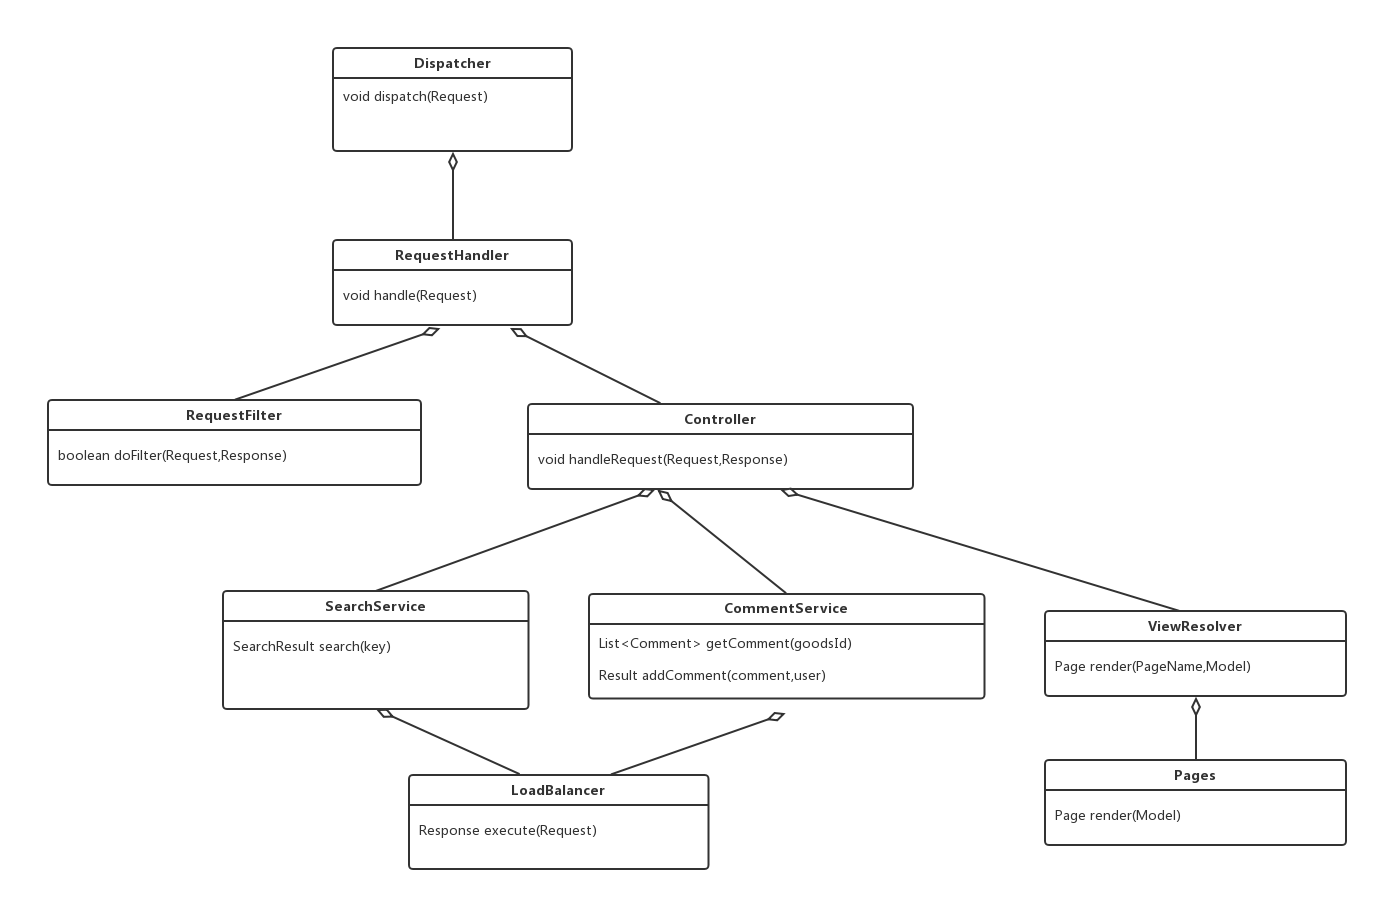
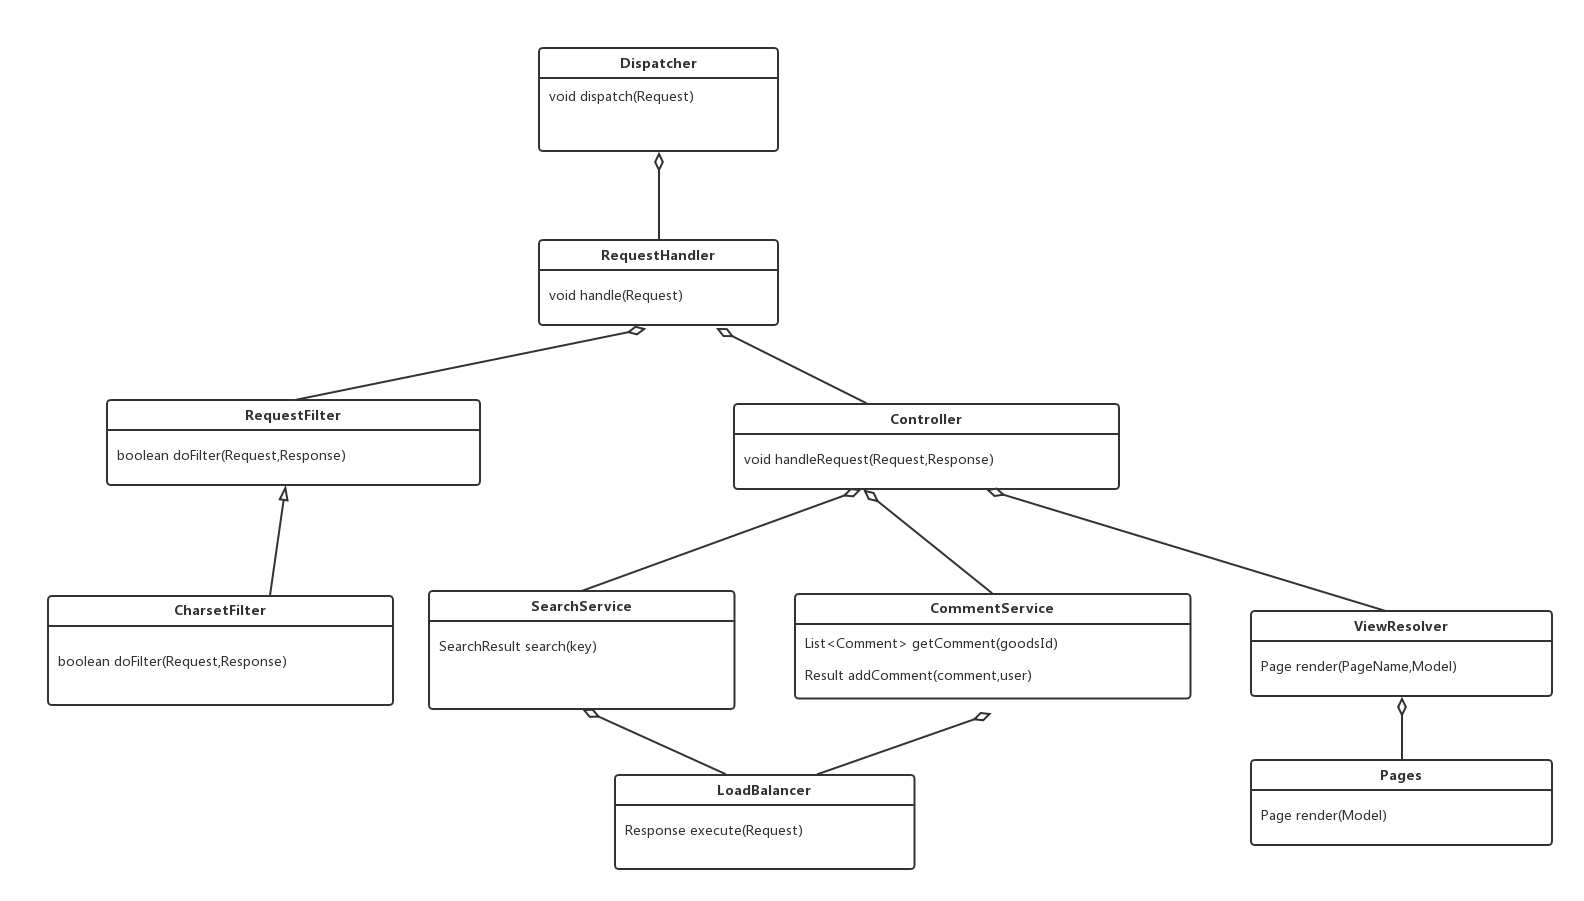
Creates assets/sbin/WebServerFilter.png
Auto commit by GitBook Editor

diff --git a/WebServer.md b/WebServer.md
@@ -185,9 +185,8 @@ public Response request\(Request\)
 
 ## 四、设计模式应用
 
-### 策略模式
+### 过滤器模式
 
-为了方便拓展不同的通知方式,使用了策略模式对notifier进行抽象
+为了方便的向controller添加切面逻辑,WebServer中采用了过滤器模式.可以通过Filter来向controller处理的前后添加功能.
 
-![](/assets/sbin/RegisterNotifier.png)
 
